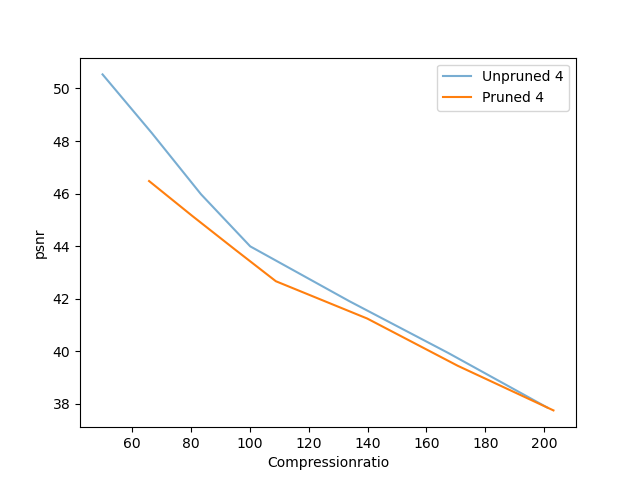
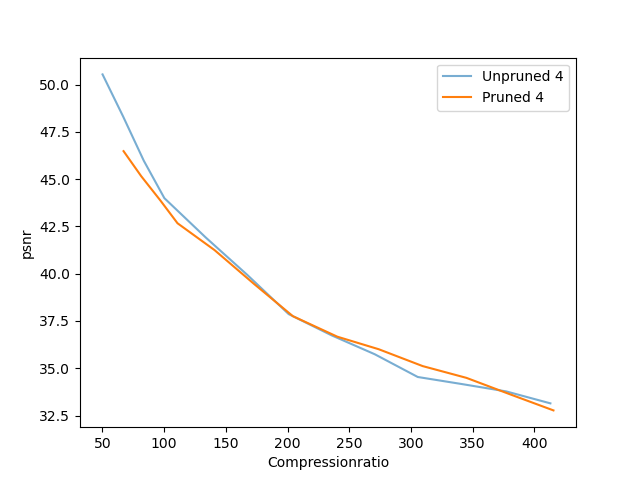
Add plots for pruning momentum and threshold hyperparameters

diff --git a/visualization/generatecomprPlot.py b/visualization/generatecomprPlot.py
@@ -563,6 +563,42 @@ def influenceSmallifyParameter():
     plt.savefig(filepath)
 
 
+def influenceHyperSearchParams():
+    BASENAMEPruned = 'experiments/hyperparam_search/test_experiment_RandomSearch_Momentum_Threshold/test_experiment_'
+    experimentNamesPruned = []
+    for i in range(0, 20):
+        experimentNamesPruned.append(i)
+
+    CONFIGNAME = 'config.txt'
+    infoname = 'info.txt'
+
+    pruning_momentum = []
+    pruning_threshold = []
+
+    psnr = []
+    rmsePruned = []
+    compressionRatioPruned = []
+
+    # M: generate lists...
+    generate_plot_lists(([pruning_momentum, pruning_threshold],
+                         [psnr, rmsePruned, compressionRatioPruned],),
+                        (['pruning_momentum', 'pruning_threshold'],
+                         ['psnr', 'rmse', 'compression_ratio'],),
+                        BASENAMEPruned, (CONFIGNAME, infoname,), experiment_names=experimentNamesPruned)
+
+    comprRMSE = []
+    for i in range(len(compressionRatioPruned)):
+        comprRMSE.append(compressionRatioPruned[i] / rmsePruned[i])
+
+    #plt.scatter(pruning_momentum, comprRMSE, label='pruning_momentum')
+    plt.scatter(pruning_threshold, comprRMSE, label='pruning_threshold')
+
+    plt.xlabel('pruning_threshold')
+    plt.ylabel('compr/rmse')
+    filepath = 'plots/' + 'test_volume_HyperSearch_' + 'Influence_PruningThreshold' + '.png'
+    plt.savefig(filepath)
+
+
 def SmallifyVSNeurcompLR():
     BASENAMESmallify = 'experiments/diff_comp_rates/test_experiment_lrcomparison/Smallify/test_experiment_'
     experimentNamesSmallify = ['50_0', '50_1', '50_2', '100_0', '100_1', '100_2', '200_0', '200_1', '200_2']
@@ -612,12 +648,12 @@ def SmallifyVSNeurcompLR():
 
 def SmallifyAftertrainingVSNoAftertrainig():
     #BASENAMERetrain = 'experiments/diff_comp_rates/test_experiment_Retraining/Retrain/test_experiment_'
-    BASENAMERetrain = 'experiments/diff_comp_rates/test_experiment_Retraining/4C_Retrain/test_experiment_'
-    experimentNamesRetrain = ['50_0', '50_1', '50_2', '100_0', '100_1', '100_2', '200_0', '200_1', '200_2']
+    BASENAMERetrain = 'experiments/diff_comp_rates/test_experiment_Retraining/2C_Retrain/test_experiment_'
+    experimentNamesRetrain = ['50_0', '50_1', '50_2', '100_0', '100_1', '100_2', '200_0', '200_1', '200_2', '300_0', '300_1', '300_2', '400_0', '400_1', '400_2']
 
     #BASENAMENoRetrain = 'experiments/diff_comp_rates/test_experiment_Retraining/NoRetrain/test_experiment_'
-    BASENAMENoRetrain = 'experiments/diff_comp_rates/test_experiment_BroaderNW/4C/test_experiment_'
-    experimentNamesNoRetrain = ['50_0', '50_1', '50_2', '100_0', '100_1', '100_2', '200_0', '200_1', '200_2']
+    BASENAMENoRetrain = 'experiments/diff_comp_rates/test_experiment_BroaderNW/2C/test_experiment_'
+    experimentNamesNoRetrain = ['50_0', '50_1', '50_2', '100_0', '100_1', '100_2', '200_0', '200_1', '200_2', '300_0', '300_1', '300_2', '400_0', '400_1', '400_2']
 
     QUANTNAMECONFIG = 'info.txt'
 
@@ -642,12 +678,12 @@ def SmallifyAftertrainingVSNoAftertrainig():
     compressionRatioSmallify_sum = generateMeanValues(compressionRatioRetrain, 3)
     PSNRPrunedSmallify_sum = generateMeanValues(PSNRRetrain, 3)
 
-    plt.plot(compressionRatioSmallify_sum, PSNRPrunedSmallify_sum, label='With Retraining 4 Layers')
+    plt.plot(compressionRatioSmallify_sum, PSNRPrunedSmallify_sum, label='With Retraining 2 Layers')
 
     compressionRatioNeurcomp_sum = generateMeanValues(compressionRatioNoRetrain, 3)
     PSNRPrunedneurcomp_sum = generateMeanValues(PSNRNoRetrain, 3)
 
-    plt.plot(compressionRatioNeurcomp_sum, PSNRPrunedneurcomp_sum, label='No Retraining 4 Layers')
+    plt.plot(compressionRatioNeurcomp_sum, PSNRPrunedneurcomp_sum, label='No Retraining 2 Layers')
 
     #plt.gca().yaxis.set_major_formatter(FormatStrFormatter('%.2f'))
     #plt.gca().xaxis.set_major_formatter(FormatStrFormatter('%.2f'))
@@ -655,7 +691,7 @@ def SmallifyAftertrainingVSNoAftertrainig():
     plt.ylabel('psnr')
     plt.legend()
 
-    filepath = 'plots/' + 'test_volume_' + 'SmallifyAftertrainingVSNoAftertrainig_4Layer' + '.png'
+    filepath = 'plots/' + 'test_volume_' + 'SmallifyAftertrainingVSNoAftertrainig_2Layer' + '.png'
     plt.savefig(filepath)
 
 
@@ -674,6 +710,7 @@ def SmallifyDifferentNWSizes():
     BASENAMEPruned8 = 'experiments/diff_comp_rates/test_experiment_BroaderNW/8C/test_experiment_'
     BASENAMEPruned6 = 'experiments/diff_comp_rates/test_experiment_BroaderNW/6C/test_experiment_'
     BASENAMEPruned4 = 'experiments/diff_comp_rates/test_experiment_BroaderNW/4C/test_experiment_'
+    BASENAMEPruned4_Other = 'experiments/diff_comp_rates/test_experiment_BroaderNW/4C_OtherPruningMomentum/test_experiment_'
     BASENAMEPruned2 = 'experiments/diff_comp_rates/test_experiment_BroaderNW/2C/test_experiment_'
 
     InfoName = 'info.txt'
@@ -696,6 +733,9 @@ def SmallifyDifferentNWSizes():
     compressionRatioPruned6 = []
     PSNRPruned6 = []
 
+    compressionRatioPruned4_Other = []
+    PSNRPruned4_Other = []
+
     compressionRatioPruned4 = []
     PSNRPruned4 = []
 
@@ -713,7 +753,7 @@ def SmallifyDifferentNWSizes():
 
     generate_plot_lists(([compressionRatioUnpruned4, PSNRUnpruned4],),
                         (['compression_ratio', 'psnr'],),
-                        BASENAMEUnpruned4, (InfoName,), experiment_names=experimentNames)
+                        BASENAMEUnpruned4, (InfoName,), experiment_names=experimentNames2)
 
     generate_plot_lists(([compressionRatioUnpruned2, PSNRUnpruned2],),
                         (['compression_ratio', 'psnr'],),
@@ -729,7 +769,11 @@ def SmallifyDifferentNWSizes():
 
     generate_plot_lists(([compressionRatioPruned4, PSNRPruned4],),
                         (['compression_ratio', 'psnr'],),
-                        BASENAMEPruned4, (InfoName,), experiment_names=experimentNames)
+                        BASENAMEPruned4, (InfoName,), experiment_names=experimentNames2)
+
+    generate_plot_lists(([compressionRatioPruned4_Other, PSNRPruned4_Other],),
+                        (['compression_ratio', 'psnr'],),
+                        BASENAMEPruned4_Other, (InfoName,), experiment_names=experimentNames2)
 
     generate_plot_lists(([compressionRatioPruned2, PSNRPruned2],),
                         (['compression_ratio', 'psnr'],),
@@ -757,19 +801,23 @@ def SmallifyDifferentNWSizes():
     compressionRatioPruned4 = generateMeanValues(compressionRatioPruned4, 3)
     PSNRPruned4 = generateMeanValues(PSNRPruned4, 3)
 
+    compressionRatioPruned4_Other = generateMeanValues(compressionRatioPruned4_Other, 3)
+    PSNRPruned4_Other = generateMeanValues(PSNRPruned4_Other, 3)
+
     compressionRatioPruned2 = generateMeanValues(compressionRatioPruned2, 3)
     PSNRPruned2 = generateMeanValues(PSNRPruned2, 3)
 
     # M: plot
     #plt.plot(compressionRatioUnpruned8, PSNRUnpruned8, label='Unpruned 8', alpha=0.6)
     #plt.plot(compressionRatioUnpruned6, PSNRUnpruned6, label='Unpruned 6', alpha=0.6)
-    #plt.plot(compressionRatioUnpruned4, PSNRUnpruned4, label='Unpruned 4', alpha=0.6)
-    plt.plot(compressionRatioUnpruned2, PSNRUnpruned2, label='Unpruned 2', alpha=0.6)
+    plt.plot(compressionRatioUnpruned4, PSNRUnpruned4, label='Unpruned 4', alpha=0.6)
+    #plt.plot(compressionRatioUnpruned2, PSNRUnpruned2, label='Unpruned 2', alpha=0.6)
 
     #plt.plot(compressionRatioPruned8, PSNRPruned8, label='Pruned 8')
     #plt.plot(compressionRatioPruned6, PSNRPruned6, label='Pruned 6')
-    #plt.plot(compressionRatioPruned4, PSNRPruned4, label='Pruned 4')
-    plt.plot(compressionRatioPruned2, PSNRPruned2, label='Pruned 2')
+    plt.plot(compressionRatioPruned4_Other, PSNRPruned4, label='Pruned 4')
+    #plt.plot(compressionRatioPruned4_Other, PSNRPruned4_Other, label='Pruned 4_0.04Momentum')
+    #plt.plot(compressionRatioPruned2, PSNRPruned2, label='Pruned 2')
 
     #plt.gca().yaxis.set_major_formatter(FormatStrFormatter('%.2f'))
     #plt.gca().xaxis.set_major_formatter(FormatStrFormatter('%.2f'))
@@ -777,7 +825,7 @@ def SmallifyDifferentNWSizes():
     plt.ylabel('psnr')
     plt.legend()
 
-    filepath = 'plots/' + 'test_volume_' + 'SmallifyDifferentNWSizes_2' + '.png'
+    filepath = 'plots/' + 'test_volume_' + 'SmallifyDifferentNWSizes_4' + '.png'
     plt.savefig(filepath)
 
 
@@ -792,6 +840,7 @@ if __name__ == '__main__':
     #CompressionGainVSPSNR()
     #PrunedVSUnpruned()
     #influenceSmallifyParameter()
+    #influenceHyperSearchParams()
     #SmallifyVSNeurcompLR()
-    SmallifyAftertrainingVSNoAftertrainig()
-    #SmallifyDifferentNWSizes()
+    #SmallifyAftertrainingVSNoAftertrainig()
+    SmallifyDifferentNWSizes()
